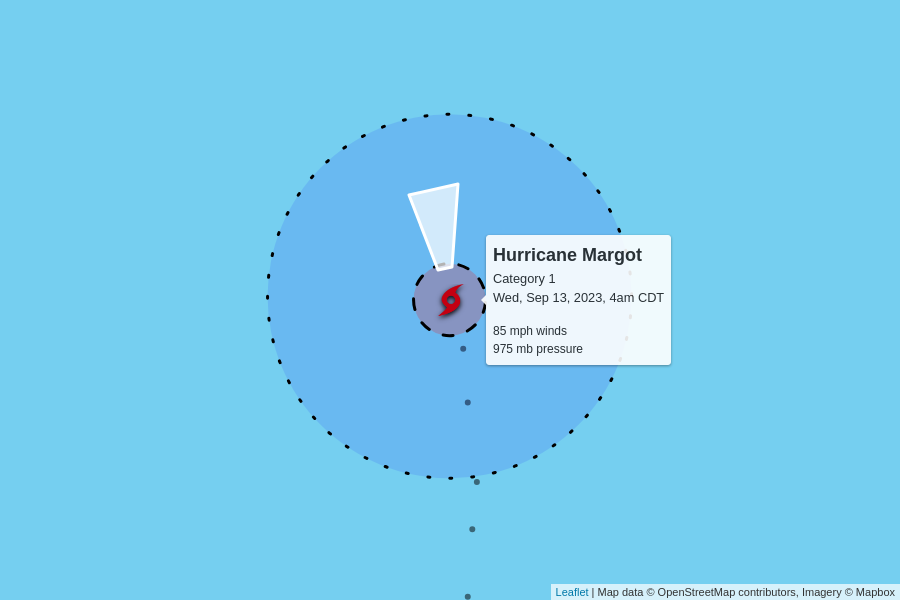
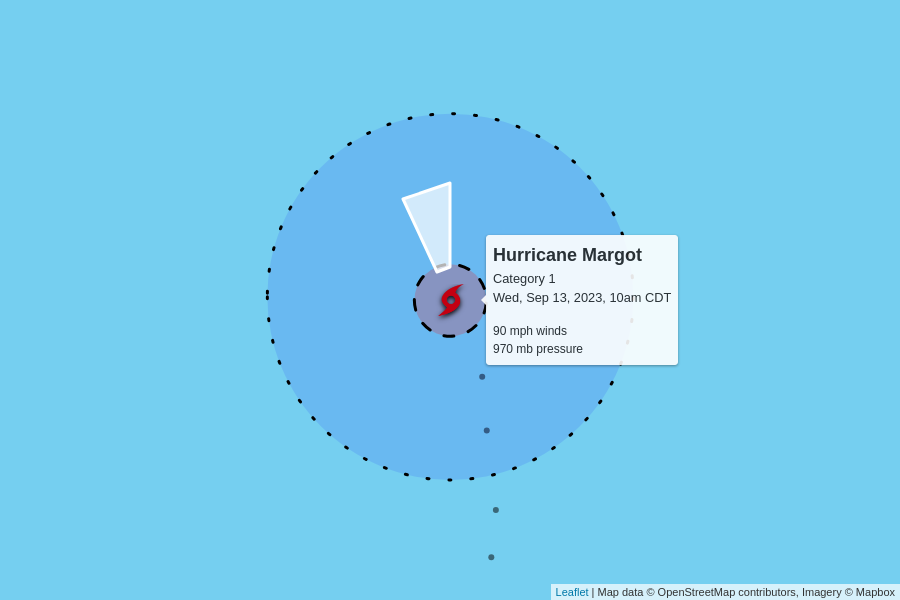
automatic update

diff --git a/docs/index.html b/docs/index.html
@@ -104,7 +104,7 @@
         <td colspan="6" class="storm category-3" >
           <h2>
             Hurricane Lee - Category 3
-            <p class="updated">last updated <span data-time>2023-09-13T12:00:00.000Z</span></p>
+            <p class="updated">last updated <span data-time>2023-09-13T15:00:00.000Z</span></p>
           </h2>
         </td>
       </tr>
@@ -122,9 +122,9 @@
         <td>115 mph<br>0 mph since last update</td>
         <td>948 mb<br>0 mb since last update</td>
         <td>
-          6 mph to the northwest
+          9 mph to the north-northwest
           <br/>
-          <span style="display: inline-block; font-size: 1.5em; transform: rotate(325deg);">↑</span>
+          <span style="display: inline-block; font-size: 1.5em; transform: rotate(345deg);">↑</span>
         </td>
         <td><a href="https://raw.githubusercontent.com/mgwalker/atlantic-hurricanes/main/data/csv/AL132023.csv">AL132023.csv</a></td>
         <td><a href="https://www.nhc.noaa.gov/archive/2023/LEE.shtml?">NHC advisories</a></td>
@@ -148,7 +148,7 @@
         <td colspan="6" class="storm category-1" >
           <h2>
             Hurricane Margot - Category 1
-            <p class="updated">last updated <span data-time>2023-09-13T09:00:00.000Z</span></p>
+            <p class="updated">last updated <span data-time>2023-09-13T15:00:00.000Z</span></p>
           </h2>
         </td>
       </tr>
@@ -163,12 +163,12 @@
       </tr>
       <tr>
         <td class="spacer"></td>
-        <td>85 mph<br>0 mph since last update</td>
-        <td>975 mb<br>0 mb since last update</td>
+        <td>90 mph<br>+5 mph since last update</td>
+        <td>970 mb<br>-5 mb since last update</td>
         <td>
-          12 mph to the north
+          7 mph to the north-northwest
           <br/>
-          <span style="display: inline-block; font-size: 1.5em; transform: rotate(350deg);">↑</span>
+          <span style="display: inline-block; font-size: 1.5em; transform: rotate(345deg);">↑</span>
         </td>
         <td><a href="https://raw.githubusercontent.com/mgwalker/atlantic-hurricanes/main/data/csv/AL142023.csv">AL142023.csv</a></td>
         <td><a href="https://www.nhc.noaa.gov/archive/2023/MARGOT.shtml?">NHC advisories</a></td>
